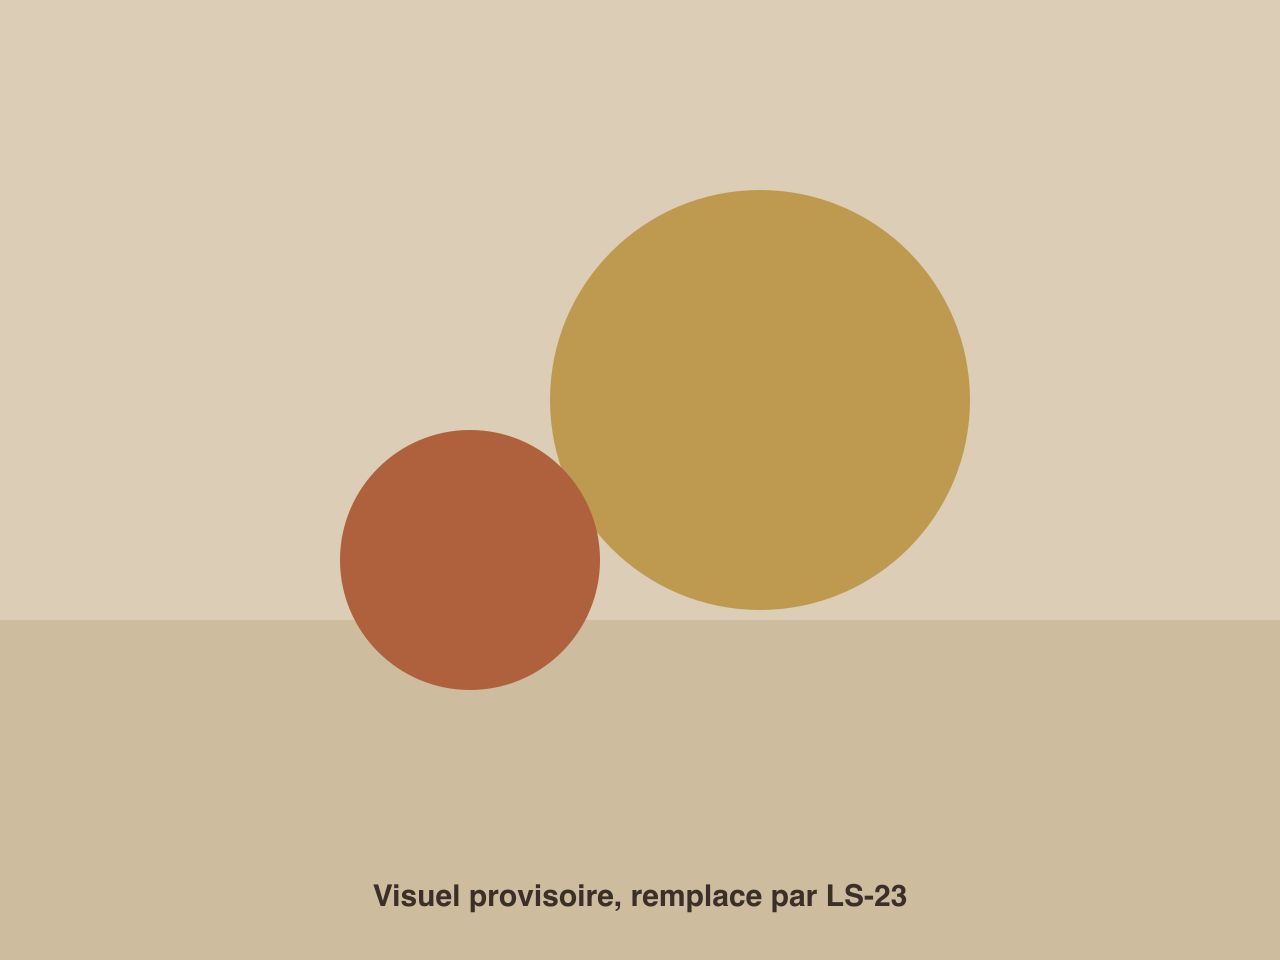
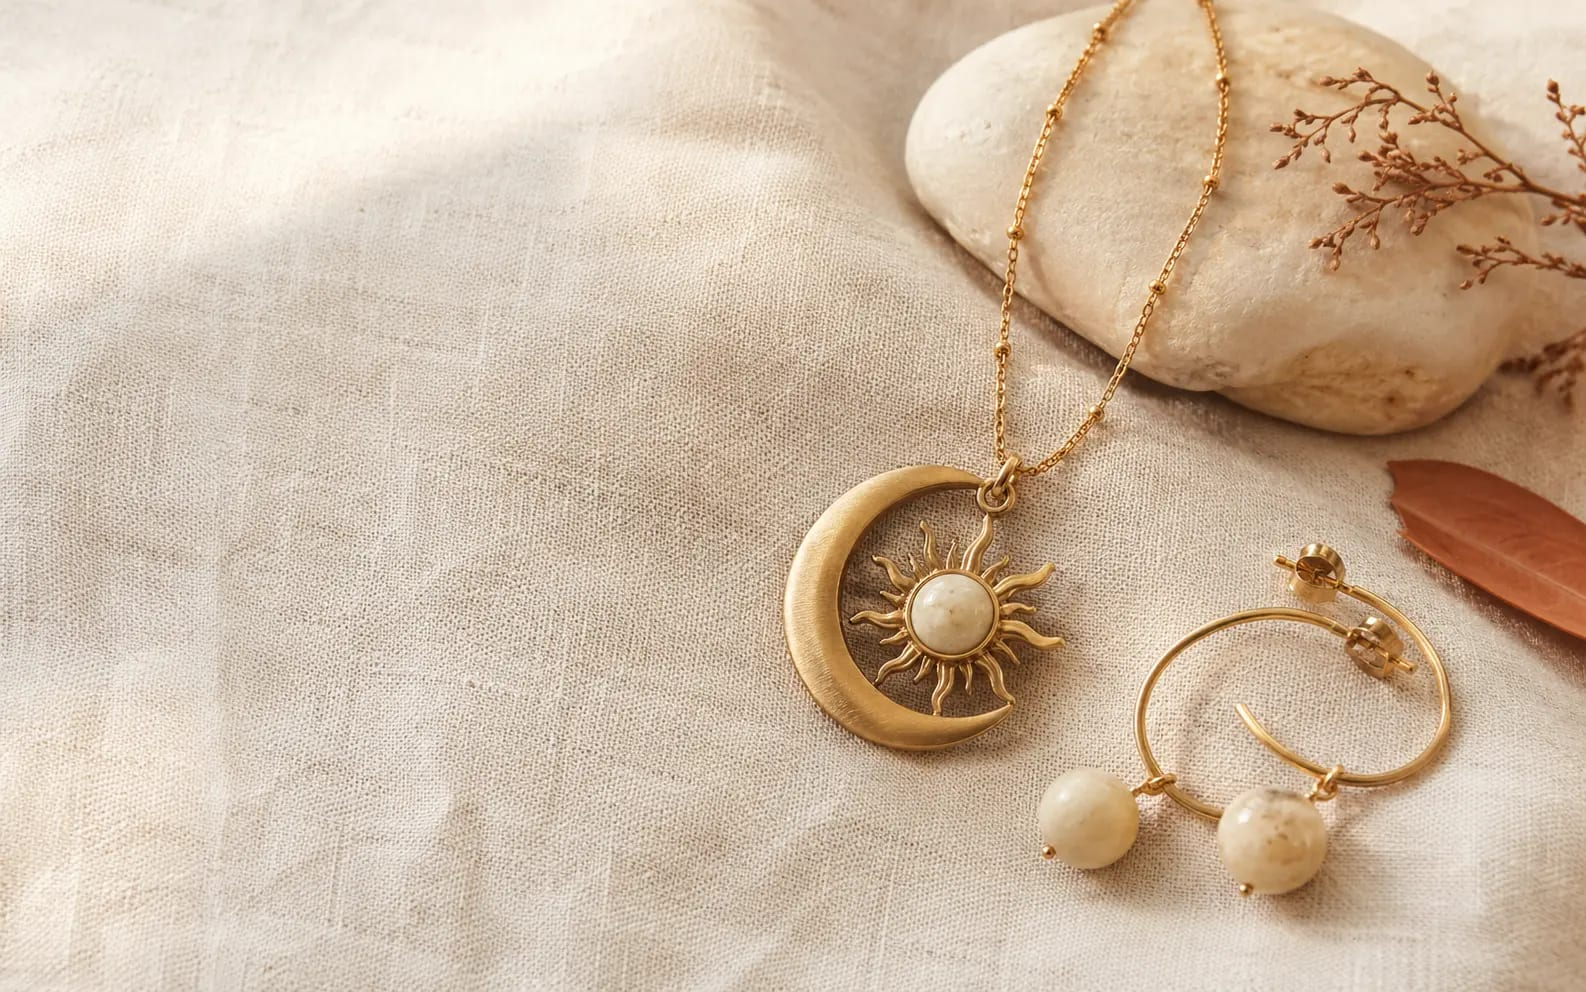
feat(LS-122): visuel du hero fourni par Christophe
Remplace le visuel provisoire engendre. Ratio reel 16/10 et non 4/3 : garder
4/3 aurait rogne l'image en haut et en bas avec object-fit cover, coupant le
pendentif qui est le sujet.

L'image porte un contenu, donc un alt decrit et non aria-hidden : la rendre
invisible aux lecteurs d'ecran priverait de l'ambiance du hero. Le texte
alternatif decrit la scene, jamais un produit du catalogue.

Aucune metadonnee EXIF, ICC ni XMP, verifie.

A REMPLACER AVANT L'OUVERTURE, LS-23. Les bijoux montres ne sont pas au
catalogue : les laisser en ligne ferait passer des pieces inexistantes pour des
creations de la boutique, interdit de LS-22. Arbitrage de Christophe du 19 aout
2026, trace dans le README du dossier et dans LS-23.

Le script du visuel provisoire est retire, il n'a plus d'objet.

diff --git a/src/app/(boutique)/page.tsx b/src/app/(boutique)/page.tsx
@@ -63,28 +63,32 @@ export default async function PageAccueil() {
         </div>
 
         {/*
-         * LE VISUEL EST DECORATIF, `alt` VIDE ET `aria-hidden`. Le titre et
-         * l'accroche portent deja tout le sens : le decrire ferait repeter la
-         * meme information a qui ecoute.
+         * LE VISUEL PORTE UN CONTENU, DONC UN `alt` DECRIT. Il montre des
+         * bijoux : le rendre `aria-hidden` priverait de l'ambiance du hero qui
+         * que ce soit ne voyant pas l'image. Le texte alternatif decrit la
+         * scene et la matiere, jamais un produit du catalogue, ces pieces n'en
+         * etant pas.
          *
-         * `next/image` ICI, CONTRAIREMENT AUX PHOTOS DE PRODUITS. Ce fichier vit dans
-         * `public/` et passe donc par l'optimiseur de Next.js. Les medias d'ADR-007
-         * sont servis par Nginx depuis un volume, hors de sa portee, et emploient
-         * `<img>` avec leurs declinaisons pre-generees.
+         * `next/image` ICI, CONTRAIREMENT AUX PHOTOS DE PRODUITS. Ce fichier
+         * vit dans `public/` et passe donc par l'optimiseur de Next.js. Les
+         * medias d'ADR-007 sont servis par Nginx depuis un volume, hors de sa
+         * portee, et emploient `<img>` avec leurs declinaisons pre-generees.
          *
-         * IMAGE PROVISOIRE. Les photographies reelles sont LS-23, bloquee par la
-         * chaine de traitement des medias. Le fichier vit dans `public/` et non
-         * dans le volume des medias d'ADR-007 : c'est un element d'habillage du
-         * site, pas une photo de produit administrable.
+         * VISUEL D'HABILLAGE A REMPLACER AVANT L'OUVERTURE, LS-23. Il montre
+         * des bijoux qui ne sont PAS au catalogue : les laisser a l'ouverture
+         * ferait passer des pieces inexistantes pour des creations de la
+         * boutique, ce que LS-22 interdit et ce qui serait une allegation
+         * commerciale trompeuse. Arbitrage de Christophe du 19 aout 2026 :
+         * on le garde le temps du developpement, on le remplace avant la mise
+         * en ligne.
          */}
         <div className={styles.heroVisuel}>
           <Image
             src="/habillage/accueil-hero.jpg"
-            alt=""
-            aria-hidden="true"
+            alt="Un pendentif lune et soleil en laiton doré et des boucles d'oreilles à perles claires, posés sur un tissu de lin écru"
             className={styles.image}
-            width={1280}
-            height={960}
+            width={1586}
+            height={992}
             priority
             sizes="(min-width: 768px) 50vw, 100vw"
           />

diff --git a/src/app/(boutique)/page.module.css b/src/app/(boutique)/page.module.css
@@ -128,7 +128,12 @@
   display: block;
   width: 100%;
   height: auto;
-  aspect-ratio: 4 / 3;
+  /*
+   * 16/10, LE RATIO REEL DU FICHIER. Imposer 4/3 rognerait en haut et en bas
+   * avec `object-fit: cover`, et couperait le pendentif qui est le sujet.
+   * A revoir si LS-23 livre une photographie d'un autre format.
+   */
+  aspect-ratio: 16 / 10;
   object-fit: cover;
 }
 

diff --git a/public/habillage/README.md b/public/habillage/README.md
@@ -1,6 +1,7 @@
 # habillage/
 
-Images d'habillage du site, servies par Next.js depuis `public/`.
+Images d'habillage du site, servies par Next.js depuis `public/` et optimisees
+par `next/image`.
 
 ## Ce qui entre ici
 
@@ -11,11 +12,22 @@ editoriales. Ils sont versionnes dans le depot et ne changent qu'avec le code.
 
 **Les photographies de produits.** Elles vivent dans le volume des medias,
 ADR-007, sont televersees par l'administration et passent par la chaine de
-traitement qui retire les metadonnees EXIF. Mettre une photo de bijou ici la
-sortirait de ce circuit, et notamment du retrait de la geolocalisation.
+traitement qui retire les metadonnees EXIF. Mettre une photo de bijou vendable
+ici la sortirait de ce circuit, et notamment du retrait de la geolocalisation.
 
-## Etat au 19 aout 2026
+## accueil-hero.jpg, a remplacer avant l'ouverture
 
-`accueil-hero.jpg` est un visuel **provisoire**. LS-23 livrera les
-photographies reelles. Le remplacer ne demande aucune modification de code, le
-nom de fichier restant le meme.
+**Visuel d'habillage engendre, non contractuel.** Il montre des bijoux qui ne
+sont PAS au catalogue.
+
+Le garder a la mise en ligne ferait passer des pieces inexistantes pour des
+creations de la boutique : LS-22 l'interdit, et ce serait une allegation
+commerciale trompeuse au meme titre qu'un faux avis.
+
+Arbitrage de Christophe du 19 aout 2026 : conserve pendant le developpement,
+**remplace avant l'ouverture** par une photographie reelle de LS-23. Le
+remplacement ne demande aucune modification de code si le nom de fichier et le
+ratio 16/10 sont conserves ; sinon, ajuster `aspect-ratio` et les dimensions
+declarees dans `src/app/(boutique)/page.tsx`.
+
+Aucune metadonnee EXIF, ICC ni XMP dans le fichier actuel, verifie.
